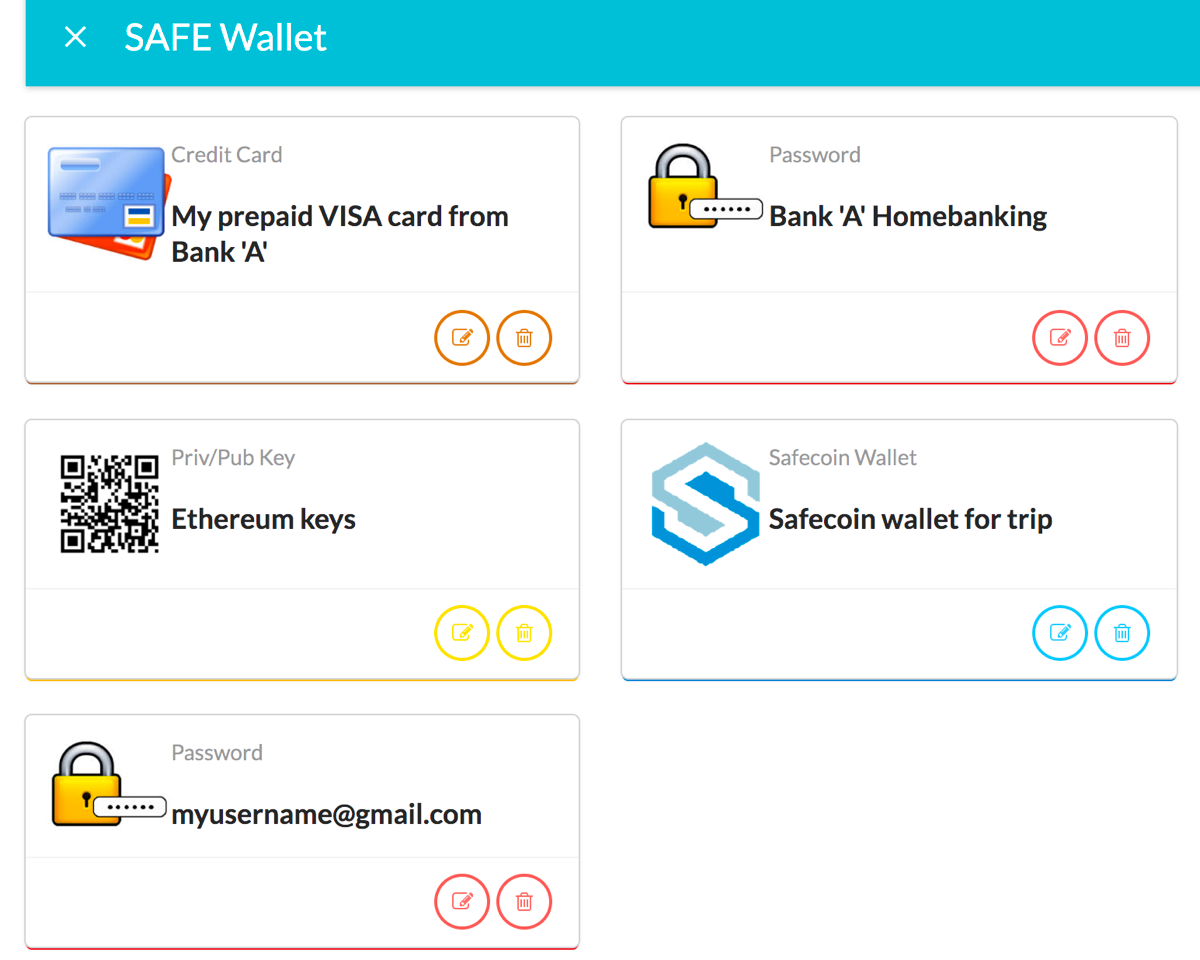
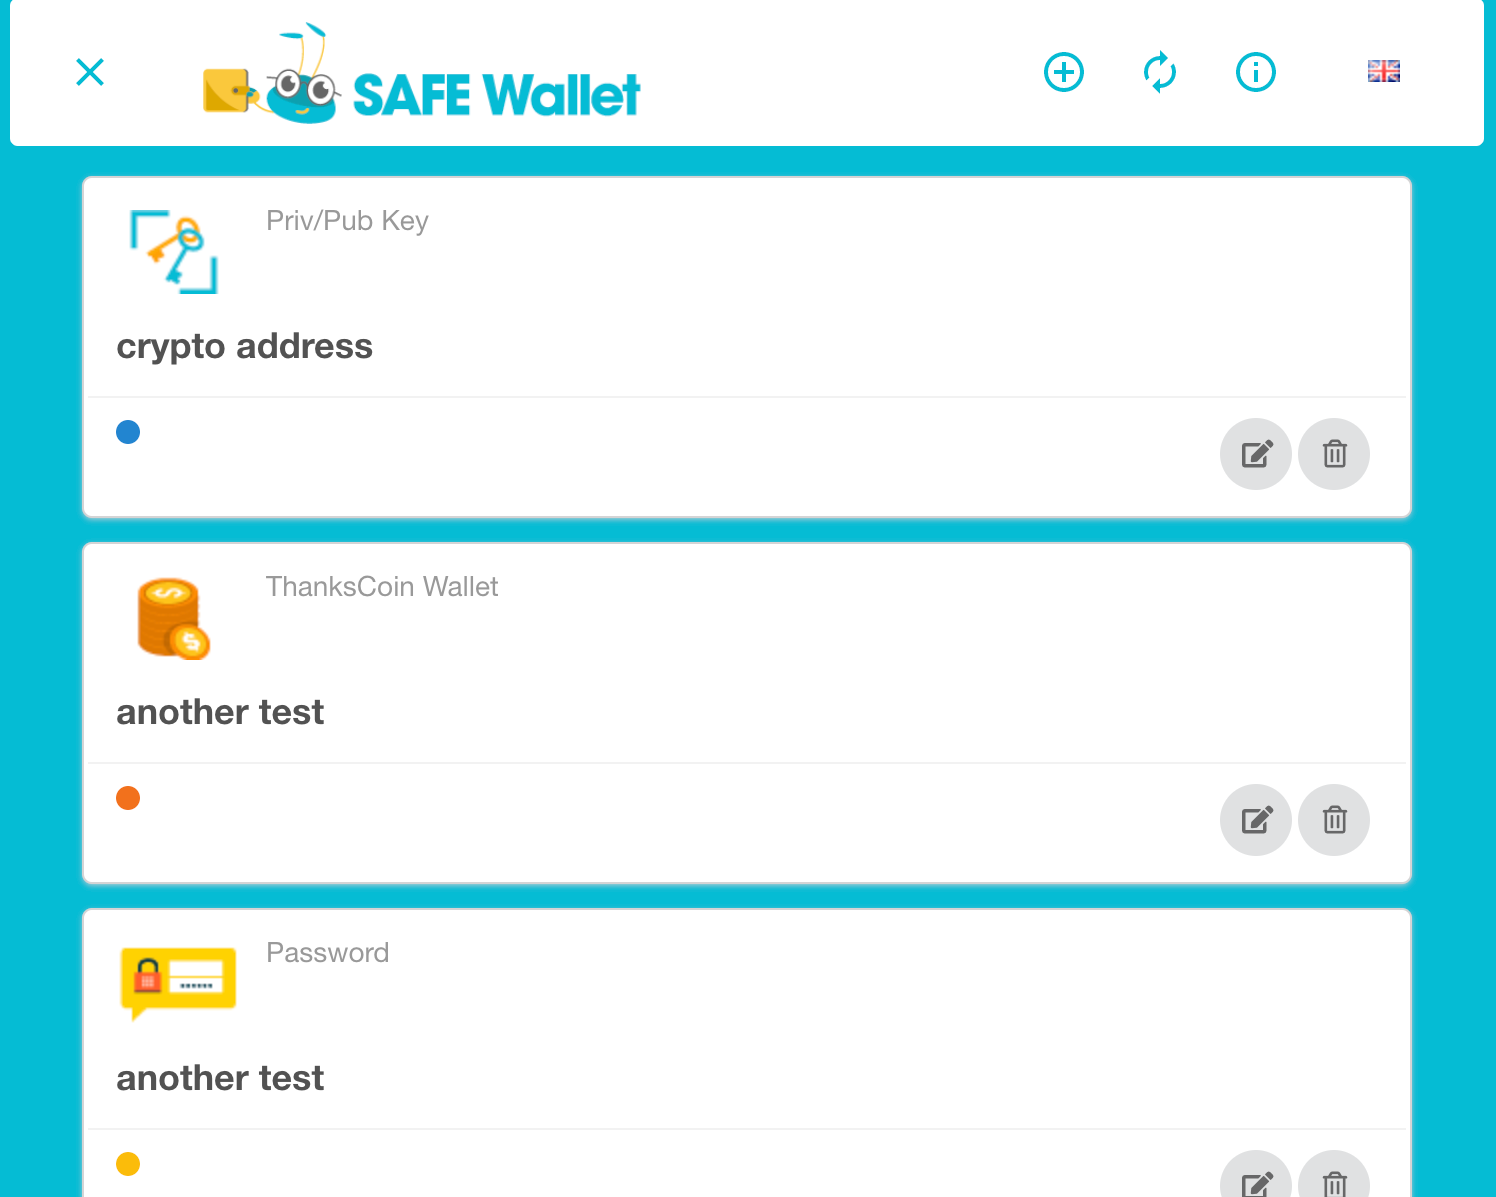
update SAFE Wallet and SAFE Faucet

diff --git a/_posts/2018-11-04-safe-wallet.md b/_posts/2018-11-04-safe-wallet.md
@@ -1,14 +1,15 @@
 ---
 title: SAFE Wallet
 website: https://bochaco.github.io/
+github: https://github.com/bochaco/safe-wallet
+license: GPLv3
+license_link: https://github.com/bochaco/safe-wallet/blob/master/LICENSE
 forum: https://safenetforum.org/t/introducing-safe-wallet-app/11764
-last_update: https://safenetforum.org/t/introducing-safe-wallet-app/11764/60
+last_update: https://safenetforum.org/t/introducing-safe-wallet-app/11764/236
 thumbnail: safe-wallet.png
-category: Test 11
+category: Alpha 2
 ---
 
 A web app that aims to provide an extremely simple UX to manage credit card numbers, passwords, safecoin/altcoins wallet(s), and many other personal information, so they can be handy, easy to maintain, and safely stored.
 
-<!-- #### Live version
-
-You can access **SAFE Wallet** at [safe://safewallet.wow](safe://safewallet.wow) using [SAFE Browser v0.4.3](https://github.com/joshuef/beaker/releases/tag/v0.4.3). -->
+#### [safe://safewallet.wow (opens in SAFE Browser)](safe://safewallet.wow/)

diff --git a/_posts/2018-11-04-safe-faucet.md b/_posts/2018-11-04-safe-faucet.md
@@ -1,0 +1,13 @@
+---
+title: SAFE Faucet
+github: https://github.com/bochaco/safe-faucet
+license: MIT
+license_link: https://github.com/bochaco/safe-faucet/blob/master/LICENSE
+last_update: https://safenetforum.org/t/introducing-safe-wallet-app/11764/236
+thumbnail: safe-faucet.png
+category: Alpha 2
+---
+
+This simple web app gives away ThanksCoin alt-coins in exchange of feedback. This alt-coin has no value and can only be used to experiment with its wallet within the SAFE Wallet app.
+
+#### [safe://safefaucet.wow (opens in SAFE Browser)](safe://safefaucet.wow/)
